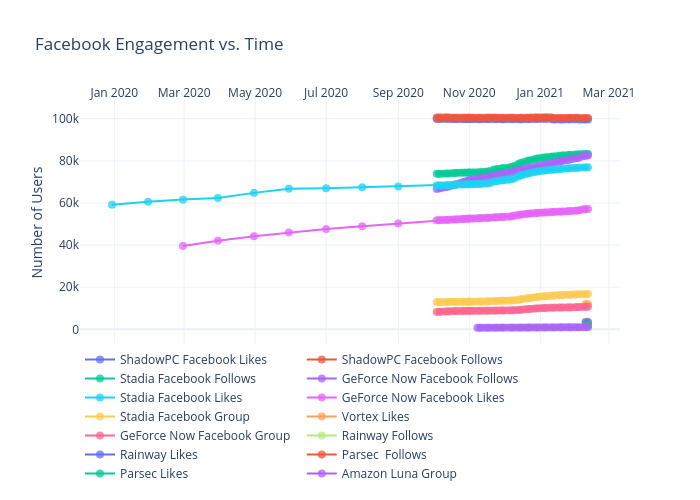
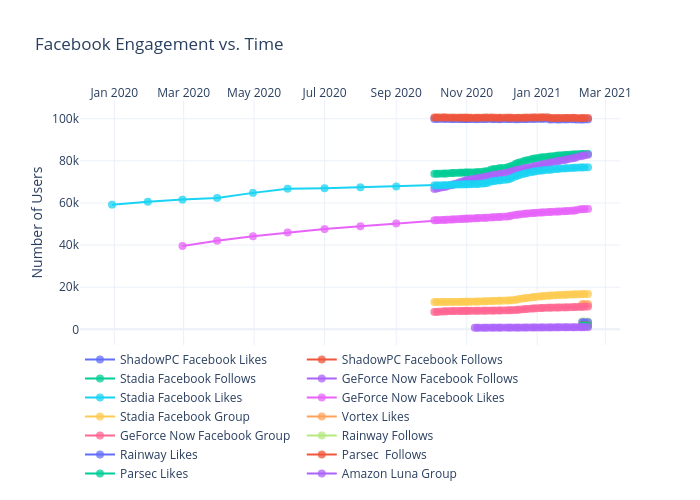
Add files via upload

diff --git a/facebook/figure.js b/facebook/figure.js
@@ -85,7 +85,8 @@ var figure = {
                 "2021-02-04",
                 "2021-02-07",
                 "2021-02-09",
-                "2021-02-11"
+                "2021-02-11",
+                "2021-02-14"
             ],
             "ysrc": "jdeslip:362:3b7870",
             "y": [
@@ -162,7 +163,8 @@ var figure = {
                 "99623",
                 "99647",
                 "99667",
-                "99683"
+                "99683",
+                "99699"
             ],
             "marker": {
                 "size": 8,
@@ -257,7 +259,8 @@ var figure = {
                 "2021-02-04",
                 "2021-02-07",
                 "2021-02-09",
-                "2021-02-11"
+                "2021-02-11",
+                "2021-02-14"
             ],
             "ysrc": "jdeslip:362:8888b1",
             "y": [
@@ -334,7 +337,8 @@ var figure = {
                 "100297",
                 "100322",
                 "100342",
-                "100359"
+                "100359",
+                "100374"
             ],
             "marker": {
                 "size": 8,
@@ -429,7 +433,8 @@ var figure = {
                 "2021-02-04",
                 "2021-02-07",
                 "2021-02-09",
-                "2021-02-11"
+                "2021-02-11",
+                "2021-02-14"
             ],
             "ysrc": "jdeslip:362:b3ea7e",
             "y": [
@@ -506,7 +511,8 @@ var figure = {
                 "83141",
                 "83224",
                 "83250",
-                "83290"
+                "83290",
+                "83355"
             ],
             "marker": {
                 "size": 8,
@@ -601,7 +607,8 @@ var figure = {
                 "2021-02-04",
                 "2021-02-07",
                 "2021-02-09",
-                "2021-02-11"
+                "2021-02-11",
+                "2021-02-14"
             ],
             "ysrc": "jdeslip:362:3b7b8c",
             "y": [
@@ -678,7 +685,8 @@ var figure = {
                 "81683",
                 "82241",
                 "82393",
-                "82612"
+                "82612",
+                "82909"
             ],
             "marker": {
                 "size": 8,
@@ -773,7 +781,8 @@ var figure = {
                 "2021-02-04",
                 "2021-02-07",
                 "2021-02-09",
-                "2021-02-11"
+                "2021-02-11",
+                "2021-02-14"
             ],
             "ysrc": "jdeslip:362:0d12c0",
             "y": [
@@ -850,7 +859,8 @@ var figure = {
                 "76788",
                 "76863",
                 "76889",
-                "76911"
+                "76911",
+                "76961"
             ],
             "marker": {
                 "size": 8,
@@ -945,7 +955,8 @@ var figure = {
                 "2021-02-04",
                 "2021-02-07",
                 "2021-02-09",
-                "2021-02-11"
+                "2021-02-11",
+                "2021-02-14"
             ],
             "ysrc": "jdeslip:362:4e0b8a",
             "y": [
@@ -1022,7 +1033,8 @@ var figure = {
                 "56601",
                 "56980",
                 "57051",
-                "57117"
+                "57117",
+                "57184"
             ],
             "marker": {
                 "size": 8,
@@ -1117,7 +1129,8 @@ var figure = {
                 "2021-02-04",
                 "2021-02-07",
                 "2021-02-09",
-                "2021-02-11"
+                "2021-02-11",
+                "2021-02-14"
             ],
             "ysrc": "jdeslip:362:e57889",
             "y": [
@@ -1194,7 +1207,8 @@ var figure = {
                 "16635",
                 "16674",
                 "16703",
-                "16739"
+                "16739",
+                "16741"
             ],
             "marker": {
                 "size": 8,
@@ -1289,7 +1303,8 @@ var figure = {
                 "2021-02-04",
                 "2021-02-07",
                 "2021-02-09",
-                "2021-02-11"
+                "2021-02-11",
+                "2021-02-14"
             ],
             "ysrc": "jdeslip:362:a4f6d3",
             "y": [
@@ -1366,7 +1381,8 @@ var figure = {
                 null,
                 null,
                 "11925",
-                "11925"
+                "11925",
+                "11921"
             ],
             "marker": {
                 "size": 8,
@@ -1461,7 +1477,8 @@ var figure = {
                 "2021-02-04",
                 "2021-02-07",
                 "2021-02-09",
-                "2021-02-11"
+                "2021-02-11",
+                "2021-02-14"
             ],
             "ysrc": "jdeslip:362:60c2c8",
             "y": [
@@ -1538,7 +1555,8 @@ var figure = {
                 "10620",
                 "10644",
                 "10689",
-                "10753"
+                "10753",
+                "10806"
             ],
             "marker": {
                 "size": 8,
@@ -1633,7 +1651,8 @@ var figure = {
                 "2021-02-04",
                 "2021-02-07",
                 "2021-02-09",
-                "2021-02-11"
+                "2021-02-11",
+                "2021-02-14"
             ],
             "ysrc": "jdeslip:362:55edf8",
             "y": [
@@ -1710,7 +1729,8 @@ var figure = {
                 null,
                 null,
                 "3687",
-                "3691"
+                "3691",
+                "3690"
             ],
             "marker": {
                 "size": 8,
@@ -1805,7 +1825,8 @@ var figure = {
                 "2021-02-04",
                 "2021-02-07",
                 "2021-02-09",
-                "2021-02-11"
+                "2021-02-11",
+                "2021-02-14"
             ],
             "ysrc": "jdeslip:362:44b138",
             "y": [
@@ -1882,7 +1903,8 @@ var figure = {
                 null,
                 null,
                 "3358",
-                "3362"
+                "3362",
+                "3360"
             ],
             "marker": {
                 "size": 8,
@@ -1977,7 +1999,8 @@ var figure = {
                 "2021-02-04",
                 "2021-02-07",
                 "2021-02-09",
-                "2021-02-11"
+                "2021-02-11",
+                "2021-02-14"
             ],
             "ysrc": "jdeslip:362:24ff45",
             "y": [
@@ -2054,7 +2077,8 @@ var figure = {
                 null,
                 null,
                 "1916",
-                "1917"
+                "1917",
+                "1919"
             ],
             "marker": {
                 "size": 8,
@@ -2149,7 +2173,8 @@ var figure = {
                 "2021-02-04",
                 "2021-02-07",
                 "2021-02-09",
-                "2021-02-11"
+                "2021-02-11",
+                "2021-02-14"
             ],
             "ysrc": "jdeslip:362:bf0e5e",
             "y": [
@@ -2226,7 +2251,8 @@ var figure = {
                 null,
                 null,
                 "1810",
-                "1811"
+                "1811",
+                "1813"
             ],
             "marker": {
                 "size": 8,
@@ -2321,7 +2347,8 @@ var figure = {
                 "2021-02-04",
                 "2021-02-07",
                 "2021-02-09",
-                "2021-02-11"
+                "2021-02-11",
+                "2021-02-14"
             ],
             "ysrc": "jdeslip:362:0c6d36",
             "y": [
@@ -2398,7 +2425,8 @@ var figure = {
                 "984",
                 "991",
                 "991",
-                "993"
+                "993",
+                "1012"
             ],
             "marker": {
                 "size": 8,
@@ -2417,8 +2445,8 @@ var figure = {
             "side": "top",
             "type": "date",
             "range": [
-                "2019-12-04 17:04:54.7487",
-                "2021-03-08 06:55:05.2513"
+                "2019-12-04 12:37:48.5488",
+                "2021-03-11 11:22:11.4512"
             ],
             "title": {
                 "text": ""
